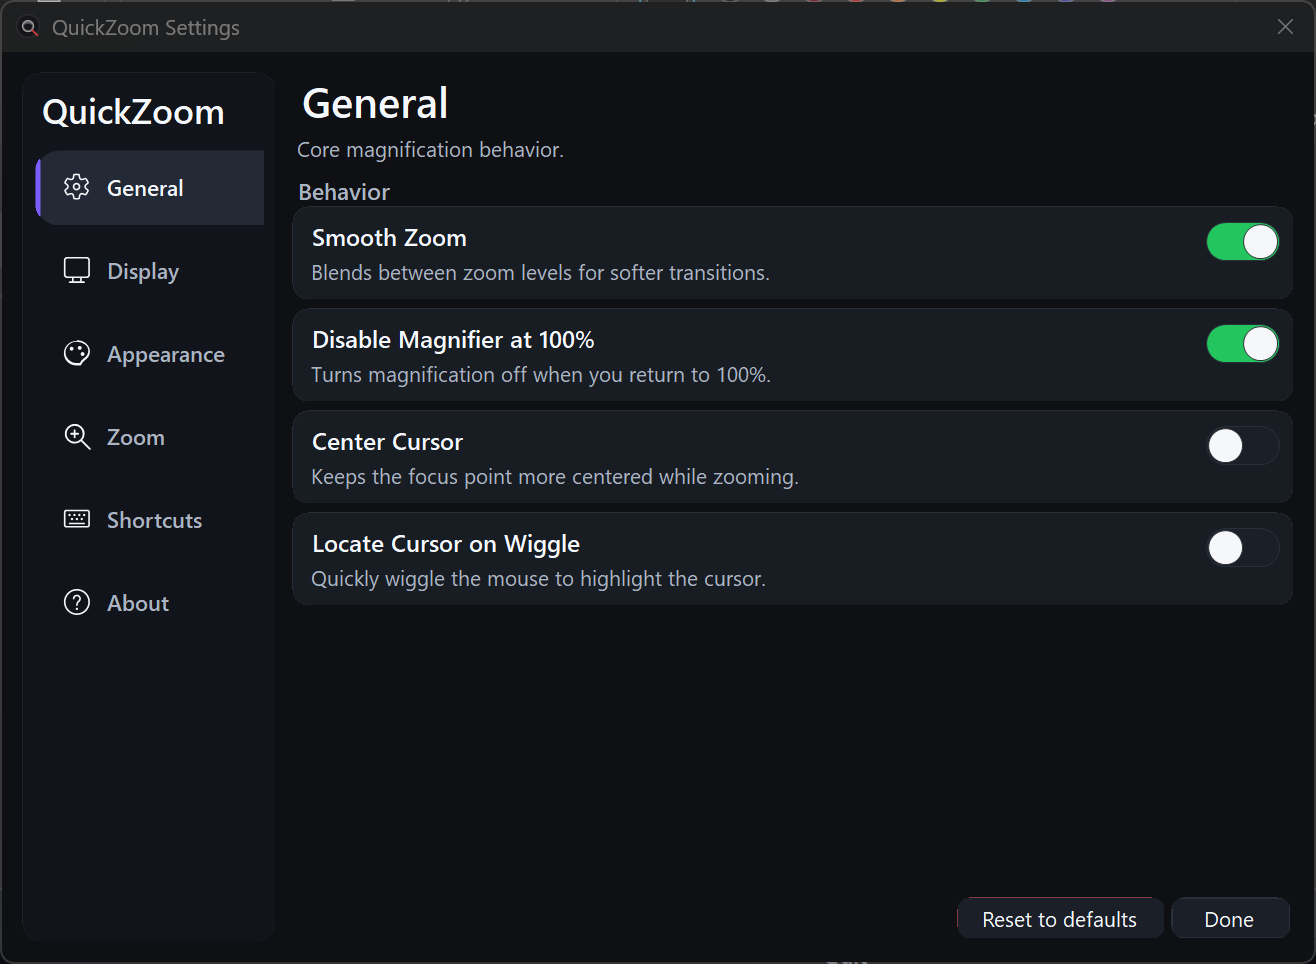
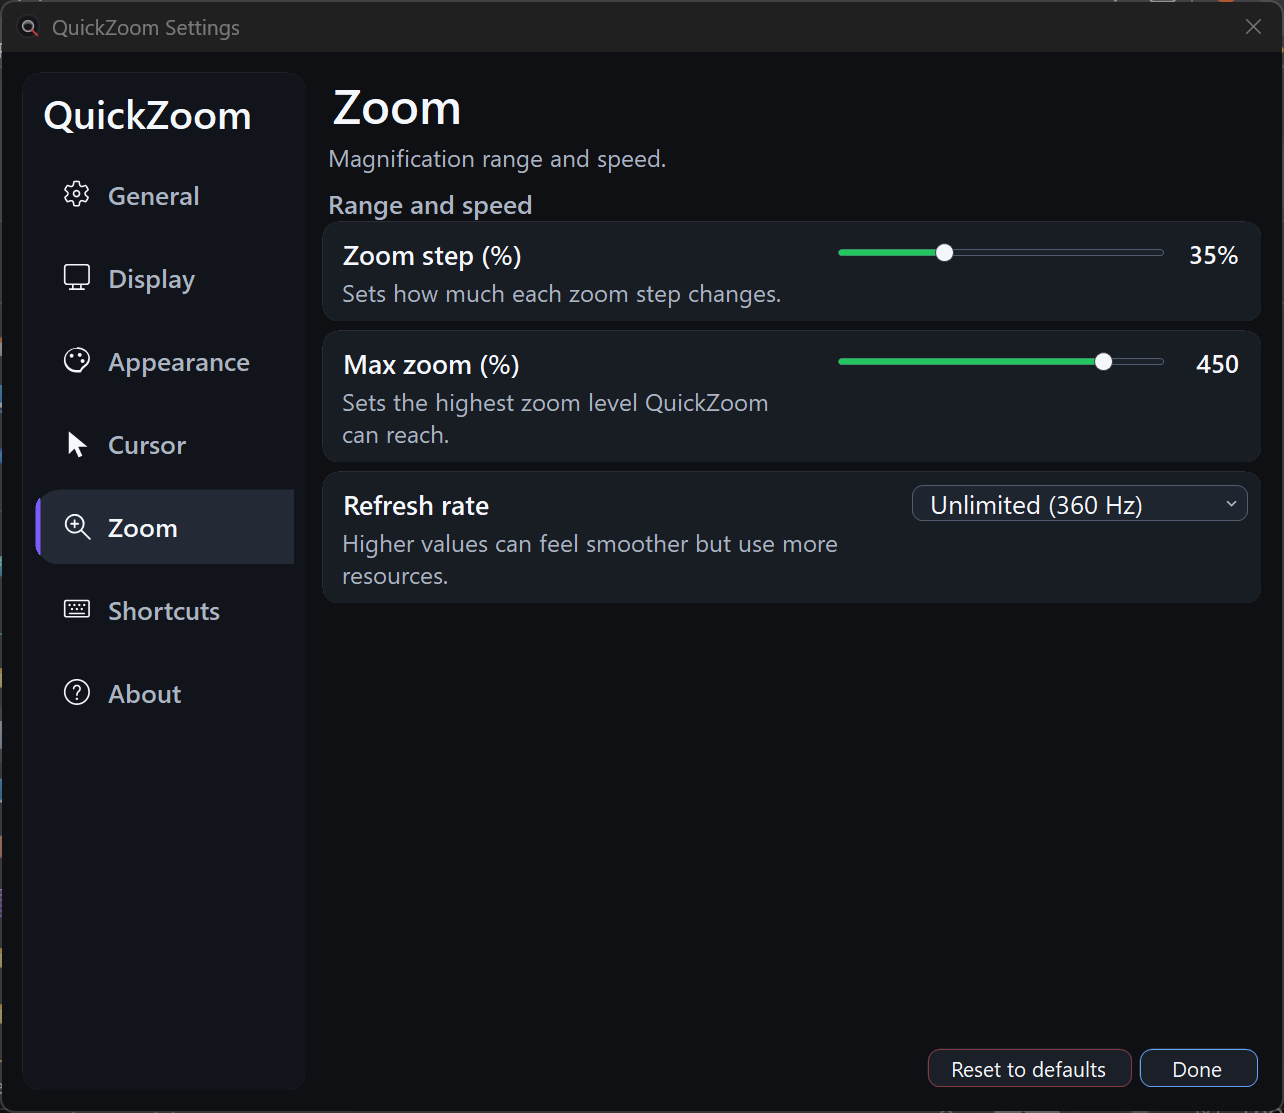
Refresh GitHub README

diff --git a/README.md b/README.md
@@ -4,18 +4,19 @@
   <img src="assets/icons/magnifier_dark.ico" alt="QuickZoom" width="96">
 </p>
 
-<h3 align="center">Fast tray-based screen magnification for Windows</h3>
+<h3 align="center">Lightweight screen magnification for Windows 10 and 11</h3>
 
 <p align="center">
-  A lightweight accessibility tool for quick desktop zoom, cursor focus, inverted colors, and multi-monitor workflows.
+  QuickZoom is a fast, tray-based accessibility tool built on the native Windows magnification engine.
 </p>
 
 <p align="center">
   <a href="https://github.com/BagerRyg/QuickZoom/releases">
-    <img src="https://img.shields.io/badge/version-2.122-6ee08f?style=for-the-badge" alt="Version 2.122">
+    <img src="https://img.shields.io/badge/version-2.167-6ee08f?style=for-the-badge" alt="Version 2.167">
   </a>
   <img src="https://img.shields.io/badge/platform-Windows%2010%20%2F%2011-64748b?style=for-the-badge" alt="Windows 10 and Windows 11">
   <img src="https://img.shields.io/badge/runtime-.NET%2010-512bd4?style=for-the-badge" alt=".NET 10">
+  <img src="https://img.shields.io/badge/license-GPLv3-blue?style=for-the-badge" alt="GPLv3 license">
 </p>
 
 <p align="center">
@@ -28,48 +29,66 @@
 
 ---
 
-QuickZoom is a Windows screen magnifier built for people who need zoom immediately without opening a heavy accessibility suite or digging through menus. It runs from the system tray, responds to simple keyboard and mouse shortcuts, and stays out of the way until you need it.
+## About
 
-I built it because I am visually impaired and wanted something faster, simpler, and more comfortable than Windows Magnifier for daily PC use.
+QuickZoom is a lightweight magnification and accessibility tool for Windows 10 and Windows 11.
 
-## Contents
+It was built to extend and improve the native Windows magnification experience with faster access, better tray controls, smoother everyday use, and practical multi-monitor support. The goal is simple: make zooming the desktop feel quick, reliable, and easy to adjust.
 
-- [Project goal](#project-goal)
-- [Features](#features)
-- [Shortcuts](#shortcuts)
-- [Screenshots](#screenshots)
-- [Requirements](#requirements)
-- [Download](#download)
-- [Build from source](#build-from-source)
-- [Elevated startup support](#elevated-startup-support)
-- [Status](#status)
-- [License](#license)
+QuickZoom is also a free and open-source alternative for users who do not need a large paid accessibility suite. Tools such as ZoomText and SuperNova can be powerful, but they can also be expensive, resource-heavy, and more complex than some users need. QuickZoom focuses on the core magnification features that matter most during normal PC use.
 
-## Project goal
+## Why QuickZoom?
 
-QuickZoom is meant to be a practical accessibility tool for everyday Windows use:
+QuickZoom is designed for users who want:
 
-- Fast temporary magnification.
-- Simple tray-first controls.
-- Better cursor visibility.
-- Multi-monitor support.
-- A lighter alternative to large commercial accessibility suites.
+- Fast zoom control without opening a large application window.
+- A simple tray menu with the most important actions one click away.
+- A full settings window for deeper configuration.
+- Smooth magnification using the native Windows magnification engine.
+- Reliable multi-monitor magnification.
+- A portable, self-contained app that can also start automatically with Windows.
+- A free, open-source accessibility tool that is easy to inspect, modify, and improve.
 
 ## Features
 
 - Tray-based quick controls.
+- Full settings window for advanced configuration.
 - Mouse and keyboard zoom shortcuts.
-- Inverted colors mode.
-- Follow cursor support.
 - Smooth zoom transitions.
-- Auto-disable at 100%.
+- Follow-cursor magnification.
 - Optional center-cursor behavior.
-- Cursor enhancement and wiggle-to-locate.
-- Single-monitor and multi-monitor modes.
+- Auto-disable at 100% zoom.
+- Inverted colors mode.
+- Cursor enhancement and wiggle-to-locate support.
+- Single-display and multi-display magnification modes.
+- Magnification across all active displays.
 - Per-monitor display selection.
 - Dark, light, and system theme support.
 - English and Danish interface.
 - Optional elevated startup support for better compatibility with administrator apps.
+- Portable self-contained release builds.
+
+## Multi-monitor support
+
+QuickZoom supports magnification on multiple displays.
+
+The most reliable and smoothest mode is magnification across all active displays. This mode is recommended for most multi-monitor setups because it avoids many of the edge cases that can happen when only one selected monitor is magnified.
+
+Per-monitor selection is also available for users who need a more specific setup.
+
+## Protected video playback
+
+Because QuickZoom uses the native Windows magnification engine, it can often magnify protected video playback surfaces such as TV players, streaming services, and DRM-protected browser video.
+
+This can work better than some third-party magnification tools in certain setups, but behavior can still depend on the app, browser, GPU driver, hardware acceleration, and the type of protected content being played.
+
+## Portable or automatic startup
+
+QuickZoom can be run as a portable self-contained app.
+
+No full installation is required for normal use. Download the release, run the executable, and QuickZoom starts in the system tray.
+
+QuickZoom can also be configured to start automatically with Windows. This requires approving a single UAC prompt during setup because Windows needs permission to register the built-in elevated startup support.
 
 ## Shortcuts
 
@@ -121,13 +140,21 @@ dotnet publish .\QuickZoom.csproj -c Release -r win-x64 --self-contained true -p
 
 ## Elevated startup support
 
-QuickZoom can optionally install a managed startup copy and register an elevated startup task. This helps when you want QuickZoom to keep working smoothly with applications that run as administrator.
+QuickZoom can optionally install a managed startup copy and register elevated startup support. This helps QuickZoom work more consistently with applications that run as administrator.
 
-This setup is optional. The app can also run directly without installing the startup task.
+This setup is optional. QuickZoom can also run directly without registering startup support.
 
-## Status
+## Project status
 
 QuickZoom is actively developed as a focused Windows accessibility utility.
+
+The project aims to stay lightweight, practical, and easy to use instead of becoming a large all-in-one accessibility suite.
+
+## Limitations
+
+QuickZoom relies on Windows' native magnification functionality, so some behavior can depend on Windows, GPU drivers, display scaling, and the application being magnified.
+
+Fullscreen games, anti-cheat software, protected windows, and some video playback surfaces may behave differently depending on the system.
 
 ## License
 
